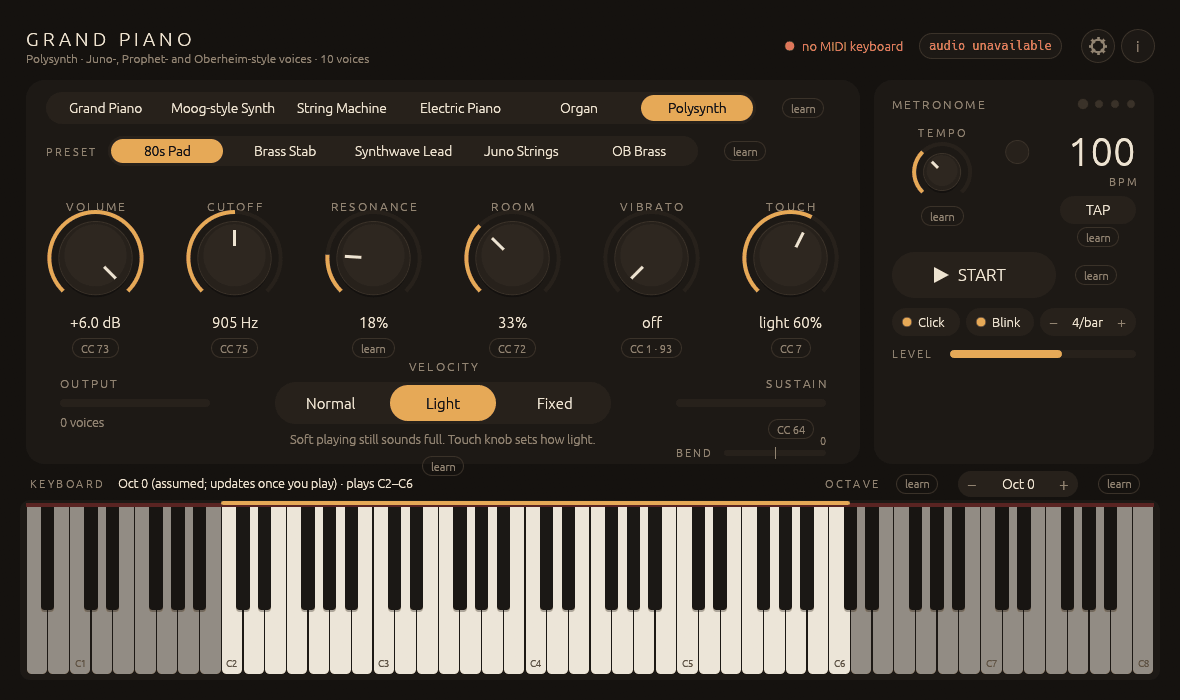
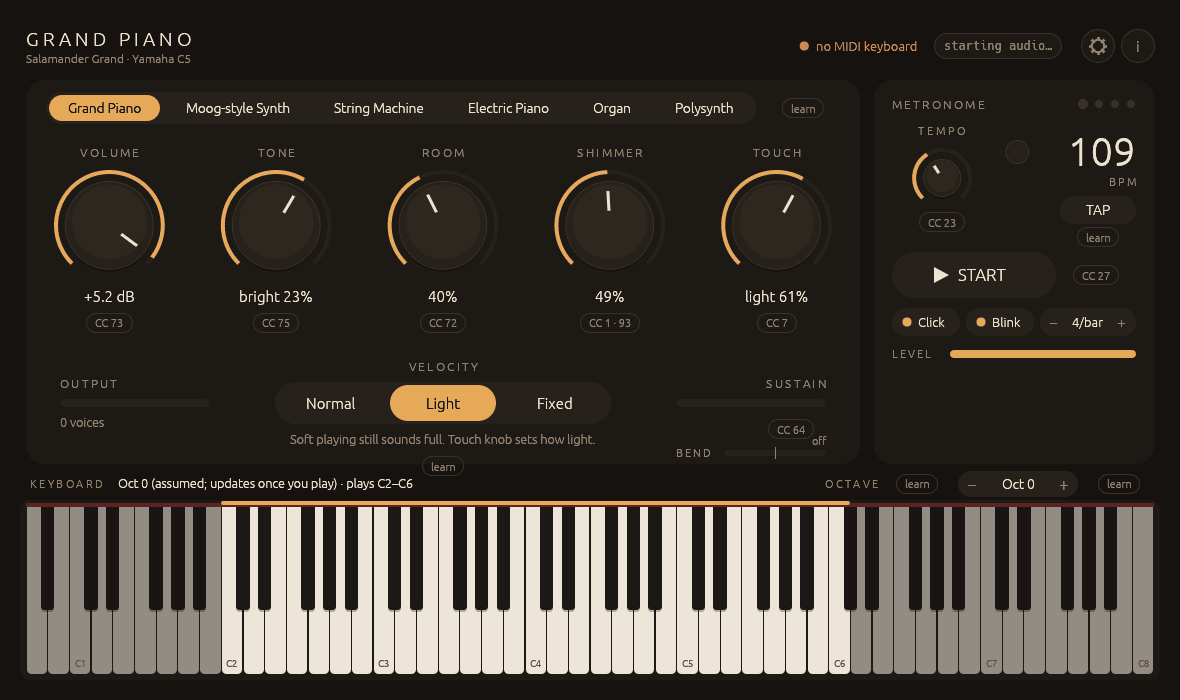
Knob labels clear of the value arc; evenly spaced instrument selector (0.1.1)
Knobs: the label above each knob sat on the top of its value arc, so from
about half way up the arc ran through it. The label now sits 12 px above the
arc on every knob, the metronome's tempo knob included, at any value. The
knobs are a few px smaller where height limits them, so the centre knob's
MIDI chip no longer touches the VELOCITY heading.

Instrument selector: the cells were all the same width, so short names had
wide gaps and long ones were crowded. Each cell is now its name plus the same
padding, so the space between neighbouring names is equal along the row. All
names share one font size; a narrow window shrinks them together and then
switches all of them to short names, never cutting one off.

--screenshot now renders without showing the window, leaves audio and MIDI
alone and logs to %TEMP%, so it can run while the app is open.
--instrument N and --knobs V pick what it shows, for checking the layout.
New README screenshot.

diff --git a/src/ui.rs b/src/ui.rs
@@ -92,6 +92,9 @@ impl App {
         let params = Arc::new(Params::default());
         let mapper = Arc::new(Mapper::default());
         settings.apply_to(&params, &mapper);
+        if shot.is_some() {
+            shot_overrides(&params);
+        }
         let sink = Arc::new(EventSink::default());
         let midi = Midi::new(params.clone(), mapper.clone(), sink.clone(), Some(ctx.clone()));
         let mut app = App {
@@ -200,15 +203,21 @@ impl App {
                     LoadMsg::Ready(inst) => {
                         self.instrument = Some(inst);
                         self.phase = Phase::Ready;
-                        self.devices = audio_win::list_output_devices().unwrap_or_default();
-                        self.start_audio();
+                        // a screenshot run leaves the audio device and MIDI port to
+                        // a copy of the app that may already be open
+                        if self.shot.is_none() {
+                            self.devices = audio_win::list_output_devices().unwrap_or_default();
+                            self.start_audio();
+                        }
                     }
                     LoadMsg::Failed(e) => self.phase = Phase::Failed(e),
                 }
             }
         }
-        let preferred = self.settings.midi_port.clone();
-        self.midi.poll(preferred.as_deref(), false);
+        if self.shot.is_none() {
+            let preferred = self.settings.midi_port.clone();
+            self.midi.poll(preferred.as_deref(), false);
+        }
         if let Some(a) = &self.audio {
             if a.failed.load(Ordering::Relaxed) {
                 self.audio_error = a.error.lock().unwrap().clone().or(Some("audio device stopped".into()));
@@ -499,12 +508,40 @@ impl App {
         // ---- row 1: instruments
         let h = 32.0;
         let y = r.min.y + 12.0;
+        // Equal gaps: each cell is its name's width plus the same padding, so the
+        // space between neighbouring names is the same all along the row. Every
+        // name uses one font size; if the window is too narrow for the full names
+        // at the smallest size, all of them switch to their short form.
         let n = InstrumentKind::ALL.len() as f32;
-        let seg = ((r.width() - 2.0 * pad - chip_w - 10.0) / n).min(132.0);
-        let total = Rect::from_min_size(pos2(r.min.x + pad, y), vec2(seg * n, h));
+        let avail = r.width() - 2.0 * pad - chip_w - 10.0;
+        let (min_pad, max_pad) = (18.0, 56.0);
+        let widths = |short: bool, size: f32| -> Vec<f32> {
+            InstrumentKind::ALL
+                .iter()
+                .map(|k| p.layout_no_wrap((if short { short_label(*k) } else { k.label() }).to_string(), FontId::proportional(size), TEXT).size().x)
+                .collect()
+        };
+        let fits = |w: &[f32]| w.iter().sum::<f32>() + n * min_pad <= avail;
+        let (mut short, mut size) = (false, 13.5);
+        let mut text_w = widths(short, size);
+        while !fits(&text_w) {
+            if size > 10.5 {
+                size -= 0.5;
+            } else if !short {
+                (short, size) = (true, 13.5);
+            } else {
+                break;
+            }
+            text_w = widths(short, size);
+        }
+        let cell_pad = ((avail - text_w.iter().sum::<f32>()) / n).clamp(min_pad, max_pad);
+        let row_w = text_w.iter().sum::<f32>() + n * cell_pad;
+        let total = Rect::from_min_size(pos2(r.min.x + pad, y), vec2(row_w, h));
         p.rect_filled(total, CornerRadius::same(16), RAISED);
+        let mut x = total.min.x;
         for (i, k) in InstrumentKind::ALL.iter().enumerate() {
-            let sr = Rect::from_min_size(pos2(total.min.x + seg * i as f32, total.min.y), vec2(seg, h));
+            let sr = Rect::from_min_size(pos2(x, total.min.y), vec2(text_w[i] + cell_pad, h));
+            x = sr.max.x;
             let resp = ui.interact(sr, ui.make_persistent_id(("inst", i)), Sense::click());
             let sel = *k == cur;
             if sel {
@@ -512,9 +549,7 @@ impl App {
             } else if resp.hovered() {
                 p.rect_filled(sr.shrink(3.0), CornerRadius::same(13), LINE);
             }
-            // narrow window: a short name if the full one doesn't fit
-            let name = if p.layout_no_wrap(k.label().to_string(), FontId::proportional(10.5), TEXT).size().x > seg - 10.0 { short_label(*k) } else { k.label() };
-            let size = fit_size(&p, name, 13.5, 10.5, seg - 10.0);
+            let name = if short { short_label(*k) } else { k.label() };
             p.text(sr.center(), Align2::CENTER_CENTER, name, FontId::proportional(size), if sel { BG } else { TEXT });
             if resp.clicked() {
                 self.params.set_instrument(*k);
@@ -944,12 +979,16 @@ impl App {
         let radius = if compact {
             ((area.height() - 70.0) / 2.0 - 10.0).min(area.width() * 0.3).clamp(18.0, 40.0)
         } else {
-            ((area.height() - 106.0) / 2.0).min(area.width() * 0.26).clamp(22.0, 58.0)
+            // 112: label, arc, value and chip, plus a gap above the VELOCITY heading
+            ((area.height() - 112.0) / 2.0).min(area.width() * 0.26).clamp(22.0, 58.0)
         };
-        let center = if compact { pos2(area.center().x, area.min.y + 22.0 + radius + 10.0) } else { pos2(area.center().x, area.min.y + 34.0 + radius + 8.0) };
+        let center = if compact { pos2(area.center().x, area.min.y + 28.0 + radius + 10.0) } else { pos2(area.center().x, area.min.y + 34.0 + radius + 8.0) };
         let p = ui.painter().clone();
         let label_size = (area.width() / 10.0).clamp(8.5, 11.5);
-        spaced(&p, pos2(center.x, if compact { area.min.y + 10.0 } else { area.min.y + 26.0 }), label, label_size, MUTED, Align2::CENTER_CENTER);
+        // the label sits clear above the value arc (whose top is 10 px above the
+        // knob), so the arc never runs through it, even at full
+        let ring_top = center.y - radius - 10.0 - 2.0;
+        spaced(&p, pos2(center.x, ring_top - 12.0 - label_size * 0.5), label, label_size, MUTED, Align2::CENTER_CENTER);
         let hit = Rect::from_center_size(center, Vec2::splat(radius * 2.3));
         let resp = ui.interact(hit, ui.make_persistent_id(("knob", t.id())), Sense::click_and_drag());
         let mut v = self.params.get_target(t);
@@ -1557,6 +1596,21 @@ fn fit_size(p: &egui::Painter, text: &str, max: f32, min: f32, width: f32) -> f3
         size -= 0.5;
     }
     size
+}
+
+/// `--screenshot` extras for checking the layout: `--instrument N` (0..5, in
+/// selector order) and `--knobs V` (0..1, every knob on that instrument plus tempo).
+fn shot_overrides(params: &Params) {
+    let args: Vec<String> = std::env::args().collect();
+    let after = |f: &str| args.iter().position(|a| a == f).and_then(|i| args.get(i + 1)).cloned();
+    if let Some(i) = after("--instrument").and_then(|s| s.parse::<u8>().ok()) {
+        params.set_instrument(InstrumentKind::from_id(i));
+    }
+    if let Some(v) = after("--knobs").and_then(|s| s.parse::<f32>().ok()) {
+        for t in [Target::Volume, Target::Tone, Target::Resonance, Target::Glide, Target::Reverb, Target::Modulation, Target::Touch, Target::Tempo] {
+            params.set_target(t, v);
+        }
+    }
 }
 
 fn short_label(k: InstrumentKind) -> &'static str {

diff --git a/src/main.rs b/src/main.rs
@@ -23,8 +23,10 @@ fn main() {
     let data = grand_piano::settings::data_dir();
     let _ = std::fs::create_dir_all(&data);
 
-    // log to %LOCALAPPDATA%\GrandPiano\grandpiano.log
-    if let Ok(file) = std::fs::OpenOptions::new().create(true).write(true).truncate(true).open(data.join("grandpiano.log")) {
+    // log to %LOCALAPPDATA%\GrandPiano\grandpiano.log (a --screenshot run logs to
+    // %TEMP% instead, so it doesn't wipe the log of a copy that's already open)
+    let log_path = if has("--screenshot") { std::env::temp_dir().join("grandpiano-screenshot.log") } else { data.join("grandpiano.log") };
+    if let Ok(file) = std::fs::OpenOptions::new().create(true).write(true).truncate(true).open(log_path) {
         env_logger::Builder::new()
             .filter_level(log::LevelFilter::Info)
             .target(env_logger::Target::Pipe(Box::new(file)))
@@ -45,14 +47,18 @@ fn main() {
     }
 
     // --screenshot OUT.png: start normally, wait until the piano has loaded, save a
-    // picture of the window and quit (used for the README). It opens at the default
-    // size and doesn't save settings or the window position.
+    // picture of the window and quit (used for the README). It renders at the default
+    // size without showing the window, doesn't open audio or MIDI, and doesn't save
+    // settings or the window position. --instrument N and --knobs V (0..1) pick what
+    // it shows.
     let shot = arg_after("--screenshot").map(std::path::PathBuf::from);
     let options = eframe::NativeOptions {
         viewport: egui::ViewportBuilder::default()
             .with_title("Grand Piano")
             .with_inner_size([1180.0, 700.0])
             .with_min_inner_size([960.0, 620.0])
+            // a screenshot run paints off screen (see ui::App::screenshot_step)
+            .with_visible(shot.is_none())
             .with_icon(std::sync::Arc::new(ui::icon())),
         persist_window: shot.is_none(),
         persistence_path: Some(match shot {

diff --git a/README.md b/README.md
@@ -4,7 +4,7 @@ A simple, low-latency keyboard instrument for Windows and a USB MIDI keyboard.
 Plug in the keyboard, start the app, and play. It finds an M-Audio Oxygen
 automatically and maps its wheel, faders and knobs out of the box.
 
-![Grand Piano's main window: instrument tabs (Grand Piano, Moog-style Synth, String Machine, Electric Piano, Organ, Polysynth) with the Polysynth selected, its presets, six knobs (volume, cutoff, resonance, room, vibrato, touch), velocity modes, a metronome panel on the right and an 88-key keyboard along the bottom](docs/screenshot.png)
+![Grand Piano's main window: instrument tabs (Grand Piano, Moog-style Synth, String Machine, Electric Piano, Organ, Polysynth) with the Grand Piano selected, its five knobs (volume, tone, room, shimmer, touch), velocity modes, a metronome panel on the right and an 88-key keyboard along the bottom](docs/screenshot.png)
 
 **[Download the installer](https://github.com/titulartarantula/grand-piano/releases/latest)** (Windows 10/11, 64-bit).
 
@@ -586,8 +586,12 @@ GrandPiano.exe --download-samples [--archive FILE]   fetch (or use a local copy)
 GrandPiano.exe --render-test [OUT.wav]    load the real samples, run the level/clip/click/silence checks, write a WAV;
                                           also renders and checks every synth preset
 GrandPiano.exe --synth-test               synth checks only (no samples or audio device needed)
-GrandPiano.exe --screenshot OUT.png       open the window, wait for the piano to load, save a PNG of it and quit
-                                          (doesn't save settings; used for docs/screenshot.png)
+GrandPiano.exe --screenshot OUT.png [--instrument N] [--knobs V]
+                                          render the window off screen once the piano has loaded, save a PNG
+                                          of it and quit (used for docs/screenshot.png). It doesn't open audio
+                                          or MIDI or save settings, so it can run while the app is open.
+                                          --instrument 0..5 picks the instrument (selector order) and
+                                          --knobs 0..1 sets every knob, for checking the layout
 ```
 
 Results are printed and also written to `%LOCALAPPDATA%\GrandPiano\selftest.txt`.
